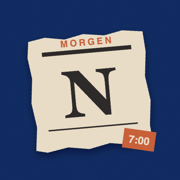
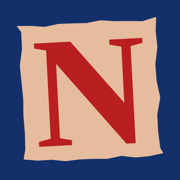
Seitensymbol: N-Papierschnipsel aus dem Intro

diff --git a/archiv/2026-11-07.html b/archiv/2026-11-07.html
@@ -11,8 +11,8 @@
 <meta name="apple-mobile-web-app-status-bar-style" content="black-translucent">
 <meta name="theme-color" content="#13306B">
 <meta name="robots" content="noindex">
-<link rel="apple-touch-icon" href="apple-touch-icon.png">
-<link rel="icon" type="image/png" href="icon-192.png">
+<link rel="apple-touch-icon" href="/apple-touch-icon.png?v=2">
+<link rel="icon" type="image/png" sizes="32x32" href="/favicon-32.png"><link rel="icon" type="image/png" sizes="96x96" href="/favicon-96.png"><link rel="icon" type="image/png" sizes="192x192" href="/favicon.png">
 <link rel="manifest" href="manifest.webmanifest">
 <link rel="preconnect" href="https://fonts.googleapis.com">
 <link rel="stylesheet" href="https://fonts.googleapis.com/css2?family=Libre+Caslon+Text:ital,wght@0,400;0,700;1,400&family=Literata:ital,opsz,wght@0,7..72,400;0,7..72,600;1,7..72,400&family=Atkinson+Hyperlegible:ital,wght@0,400;0,700;1,400&family=Libre+Franklin:wght@500;700;800&family=Abril+Fatface&family=Special+Elite&display=swap">

diff --git a/index.html b/index.html
@@ -11,8 +11,8 @@
 <meta name="apple-mobile-web-app-status-bar-style" content="black-translucent">
 <meta name="theme-color" content="#13306B">
 <meta name="robots" content="noindex">
-<link rel="apple-touch-icon" href="apple-touch-icon.png">
-<link rel="icon" type="image/png" href="icon-192.png">
+<link rel="apple-touch-icon" href="/apple-touch-icon.png?v=2">
+<link rel="icon" type="image/png" sizes="32x32" href="/favicon-32.png"><link rel="icon" type="image/png" sizes="96x96" href="/favicon-96.png"><link rel="icon" type="image/png" sizes="192x192" href="/favicon.png">
 <link rel="manifest" href="manifest.webmanifest">
 <link rel="preconnect" href="https://fonts.googleapis.com">
 <link rel="stylesheet" href="https://fonts.googleapis.com/css2?family=Libre+Caslon+Text:ital,wght@0,400;0,700;1,400&family=Literata:ital,opsz,wght@0,7..72,400;0,7..72,600;1,7..72,400&family=Atkinson+Hyperlegible:ital,wght@0,400;0,700;1,400&family=Libre+Franklin:wght@500;700;800&family=Abril+Fatface&family=Special+Elite&display=swap">

diff --git a/jahr.html b/jahr.html
@@ -11,8 +11,8 @@
 <meta name="apple-mobile-web-app-status-bar-style" content="black-translucent">
 <meta name="theme-color" content="#13306B">
 <meta name="robots" content="noindex">
-<link rel="apple-touch-icon" href="apple-touch-icon.png">
-<link rel="icon" type="image/png" href="icon-192.png">
+<link rel="apple-touch-icon" href="/apple-touch-icon.png?v=2">
+<link rel="icon" type="image/png" sizes="32x32" href="/favicon-32.png"><link rel="icon" type="image/png" sizes="96x96" href="/favicon-96.png"><link rel="icon" type="image/png" sizes="192x192" href="/favicon.png">
 <link rel="manifest" href="manifest.webmanifest">
 <link rel="preconnect" href="https://fonts.googleapis.com">
 <link rel="stylesheet" href="https://fonts.googleapis.com/css2?family=Libre+Caslon+Text:ital,wght@0,400;0,700;1,400&family=Literata:ital,opsz,wght@0,7..72,400;0,7..72,600;1,7..72,400&family=Atkinson+Hyperlegible:ital,wght@0,400;0,700;1,400&family=Libre+Franklin:wght@500;700;800&family=Abril+Fatface&family=Special+Elite&display=swap">

diff --git a/monat.html b/monat.html
@@ -11,8 +11,8 @@
 <meta name="apple-mobile-web-app-status-bar-style" content="black-translucent">
 <meta name="theme-color" content="#13306B">
 <meta name="robots" content="noindex">
-<link rel="apple-touch-icon" href="apple-touch-icon.png">
-<link rel="icon" type="image/png" href="icon-192.png">
+<link rel="apple-touch-icon" href="/apple-touch-icon.png?v=2">
+<link rel="icon" type="image/png" sizes="32x32" href="/favicon-32.png"><link rel="icon" type="image/png" sizes="96x96" href="/favicon-96.png"><link rel="icon" type="image/png" sizes="192x192" href="/favicon.png">
 <link rel="manifest" href="manifest.webmanifest">
 <link rel="preconnect" href="https://fonts.googleapis.com">
 <link rel="stylesheet" href="https://fonts.googleapis.com/css2?family=Libre+Caslon+Text:ital,wght@0,400;0,700;1,400&family=Literata:ital,opsz,wght@0,7..72,400;0,7..72,600;1,7..72,400&family=Atkinson+Hyperlegible:ital,wght@0,400;0,700;1,400&family=Libre+Franklin:wght@500;700;800&family=Abril+Fatface&family=Special+Elite&display=swap">

diff --git a/neko.html b/neko.html
@@ -11,8 +11,8 @@
 <meta name="apple-mobile-web-app-status-bar-style" content="black-translucent">
 <meta name="theme-color" content="#13306B">
 <meta name="robots" content="noindex">
-<link rel="apple-touch-icon" href="apple-touch-icon.png">
-<link rel="icon" type="image/png" href="icon-192.png">
+<link rel="apple-touch-icon" href="/apple-touch-icon.png?v=2">
+<link rel="icon" type="image/png" sizes="32x32" href="/favicon-32.png"><link rel="icon" type="image/png" sizes="96x96" href="/favicon-96.png"><link rel="icon" type="image/png" sizes="192x192" href="/favicon.png">
 <link rel="manifest" href="manifest.webmanifest">
 <link rel="preconnect" href="https://fonts.googleapis.com">
 <link rel="stylesheet" href="https://fonts.googleapis.com/css2?family=Libre+Caslon+Text:ital,wght@0,400;0,700;1,400&family=Literata:ital,opsz,wght@0,7..72,400;0,7..72,600;1,7..72,400&family=Atkinson+Hyperlegible:ital,wght@0,400;0,700;1,400&family=Libre+Franklin:wght@500;700;800&family=Abril+Fatface&family=Special+Elite&display=swap">

diff --git a/shop.html b/shop.html
@@ -11,8 +11,8 @@
 <meta name="apple-mobile-web-app-status-bar-style" content="black-translucent">
 <meta name="theme-color" content="#13306B">
 <meta name="robots" content="noindex">
-<link rel="apple-touch-icon" href="apple-touch-icon.png">
-<link rel="icon" type="image/png" href="icon-192.png">
+<link rel="apple-touch-icon" href="/apple-touch-icon.png?v=2">
+<link rel="icon" type="image/png" sizes="32x32" href="/favicon-32.png"><link rel="icon" type="image/png" sizes="96x96" href="/favicon-96.png"><link rel="icon" type="image/png" sizes="192x192" href="/favicon.png">
 <link rel="manifest" href="manifest.webmanifest">
 <link rel="preconnect" href="https://fonts.googleapis.com">
 <link rel="stylesheet" href="https://fonts.googleapis.com/css2?family=Libre+Caslon+Text:ital,wght@0,400;0,700;1,400&family=Literata:ital,opsz,wght@0,7..72,400;0,7..72,600;1,7..72,400&family=Atkinson+Hyperlegible:ital,wght@0,400;0,700;1,400&family=Libre+Franklin:wght@500;700;800&family=Abril+Fatface&family=Special+Elite&display=swap">

diff --git a/vorlage.html b/vorlage.html
@@ -11,8 +11,8 @@
 <meta name="apple-mobile-web-app-status-bar-style" content="black-translucent">
 <meta name="theme-color" content="#13306B">
 <meta name="robots" content="noindex">
-<link rel="apple-touch-icon" href="apple-touch-icon.png">
-<link rel="icon" type="image/png" href="icon-192.png">
+<link rel="apple-touch-icon" href="/apple-touch-icon.png?v=2">
+<link rel="icon" type="image/png" sizes="32x32" href="/favicon-32.png"><link rel="icon" type="image/png" sizes="96x96" href="/favicon-96.png"><link rel="icon" type="image/png" sizes="192x192" href="/favicon.png">
 <link rel="manifest" href="manifest.webmanifest">
 <link rel="preconnect" href="https://fonts.googleapis.com">
 <link rel="stylesheet" href="https://fonts.googleapis.com/css2?family=Libre+Caslon+Text:ital,wght@0,400;0,700;1,400&family=Literata:ital,opsz,wght@0,7..72,400;0,7..72,600;1,7..72,400&family=Atkinson+Hyperlegible:ital,wght@0,400;0,700;1,400&family=Libre+Franklin:wght@500;700;800&family=Abril+Fatface&family=Special+Elite&display=swap">

diff --git a/woche.html b/woche.html
@@ -11,8 +11,8 @@
 <meta name="apple-mobile-web-app-status-bar-style" content="black-translucent">
 <meta name="theme-color" content="#13306B">
 <meta name="robots" content="noindex">
-<link rel="apple-touch-icon" href="apple-touch-icon.png">
-<link rel="icon" type="image/png" href="icon-192.png">
+<link rel="apple-touch-icon" href="/apple-touch-icon.png?v=2">
+<link rel="icon" type="image/png" sizes="32x32" href="/favicon-32.png"><link rel="icon" type="image/png" sizes="96x96" href="/favicon-96.png"><link rel="icon" type="image/png" sizes="192x192" href="/favicon.png">
 <link rel="manifest" href="manifest.webmanifest">
 <link rel="preconnect" href="https://fonts.googleapis.com">
 <link rel="stylesheet" href="https://fonts.googleapis.com/css2?family=Libre+Caslon+Text:ital,wght@0,400;0,700;1,400&family=Literata:ital,opsz,wght@0,7..72,400;0,7..72,600;1,7..72,400&family=Atkinson+Hyperlegible:ital,wght@0,400;0,700;1,400&family=Libre+Franklin:wght@500;700;800&family=Abril+Fatface&family=Special+Elite&display=swap">

diff --git a/archiv/index.html b/archiv/index.html
@@ -2,7 +2,7 @@
 <html lang="de"><head><meta charset="utf-8">
 <meta name="viewport" content="width=device-width, initial-scale=1, viewport-fit=cover">
 <title>Archiv · Nekos Morgenzeitung</title><meta name="robots" content="noindex"><meta name="theme-color" content="#13306B">
-<link rel="icon" type="image/png" href="../icon-192.png">
+<link rel="icon" type="image/png" sizes="32x32" href="/favicon-32.png"><link rel="icon" type="image/png" sizes="96x96" href="/favicon-96.png"><link rel="icon" type="image/png" sizes="192x192" href="/favicon.png">
 <link rel="stylesheet" href="https://fonts.googleapis.com/css2?family=Libre+Caslon+Text:wght@700&family=Libre+Franklin:wght@700;800&display=swap">
 <style>
 body { margin: 0; min-height: 100vh; background-color: #13306B; color: #2E2B2A; font-family: "Libre Franklin", Arial, sans-serif;
